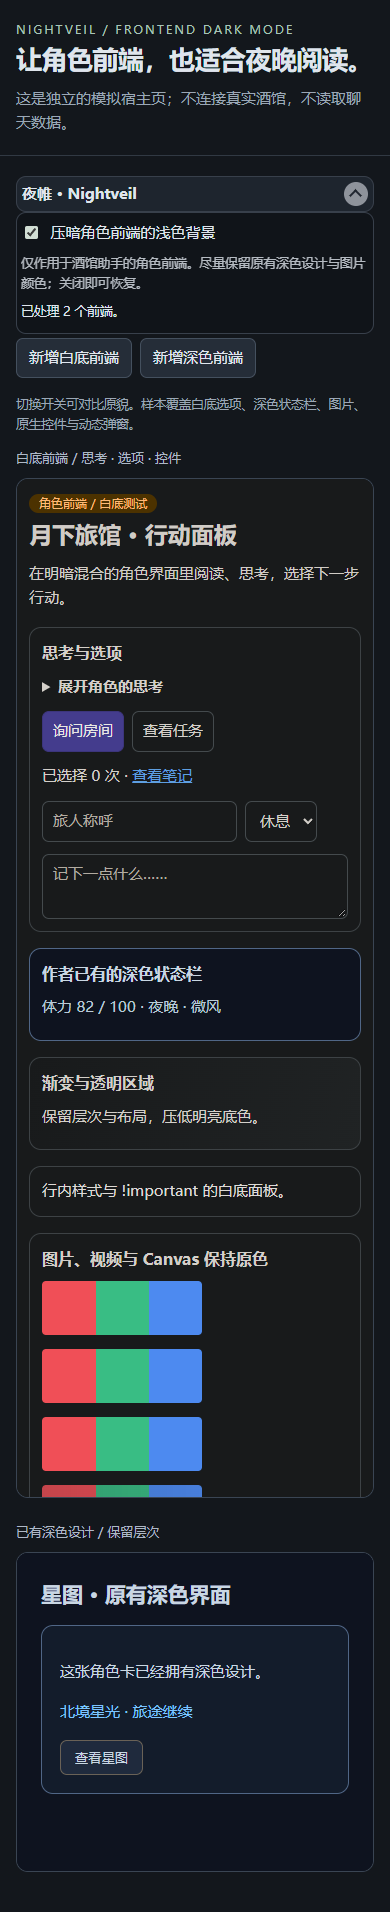
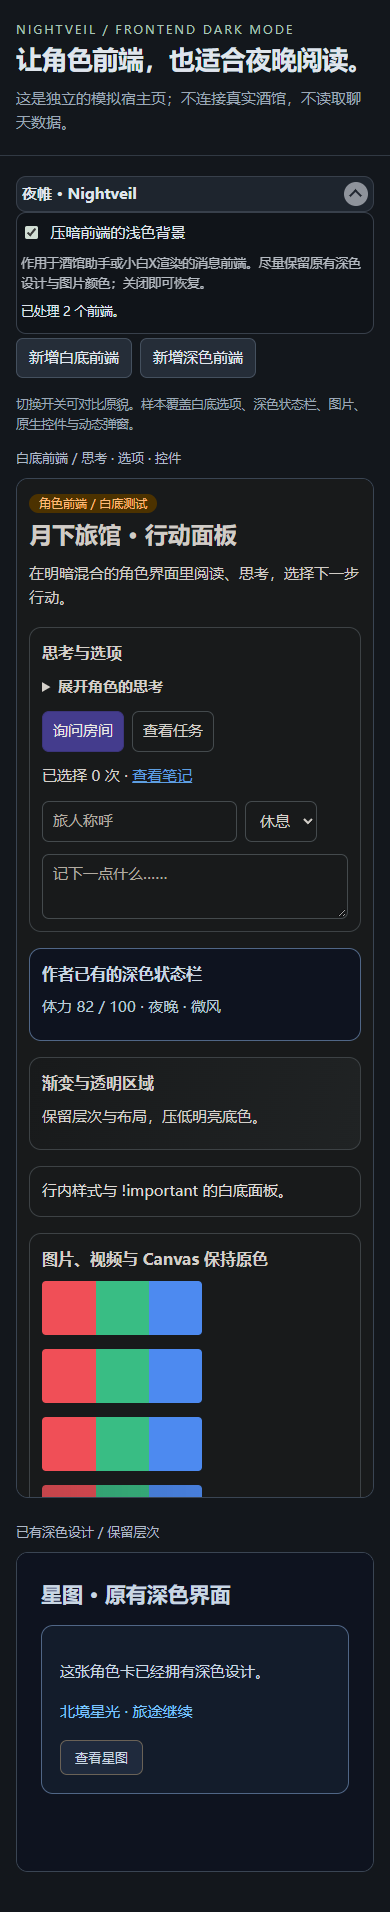
Support LittleWhiteBox message frontends in Nightveil 0.1.4

Changed region(s): [[0.0615, 0.0926, 0.9231, 0.1543]]

diff --git a/tests/browser/extension.spec.js b/tests/browser/extension.spec.js
@@ -642,3 +642,120 @@ test('settings drawer supports keyboard navigation on narrow screens', async ({ 
     await expect(checkbox).toBeVisible();
     await page.screenshot({ path: testInfo.outputPath('settings-narrow-expanded.png'), fullPage: true });
 });
+
+
+for (const host of ['modern', '1.14.0']) {
+    test('LittleWhiteBox existing srcdoc and dynamic Blob renderers coexist with Tavern Helper on ' + host, async ({ page }) => {
+        await boot(page, '?host=' + host + '&renderer=littlewhitebox');
+        await active(page, 2);
+        const initial = frame(page, 'xiaobaix-demo-0');
+        await expectDark(initial, '#light-panel');
+        await initial.locator('#choose').click();
+        await expect(initial.locator('#result')).toHaveText('1');
+        await initial.locator('#name').fill('Nightveil');
+        await expect(initial.locator('#name')).toHaveValue('Nightveil');
+        const blobId = await add(page, { renderer: 'littlewhitebox', blob: true });
+        const helperId = await add(page, { renderer: 'tavern-helper' });
+        await active(page, 4);
+        const blob = await ready(page, blobId, '#light-panel');
+        const helper = await ready(page, helperId, '#light-panel');
+        await expectDark(blob, '#light-panel');
+        await expectDark(helper, '#light-panel');
+        await expect(initial.locator('script[data-darksilly-owner]')).toHaveCount(1);
+        await expect(blob.locator('script[data-darksilly-owner]')).toHaveCount(1);
+        expect(await color(blob, '#illustration', 'filter')).toBe('none');
+        await page.locator('#darksilly-enabled').uncheck();
+        for (const target of [initial, blob, helper]) {
+            await expect(target.locator('style.darkreader, script[data-darksilly-owner]')).toHaveCount(0);
+            expect(luminance(await color(target, '#light-panel'))).toBeGreaterThan(0.9);
+        }
+        await page.locator('#darksilly-enabled').check();
+        await active(page, 4);
+        expect(await page.evaluate(() => window.extension.getDiagnostics().hostScans)).toBe(2);
+    });
+}
+
+test('LittleWhiteBox streaming callback, late options and nested frames keep working', async ({ page }) => {
+    await boot(page);
+    const html = await (await page.request.get('/tests/fixtures/littlewhitebox-template.html')).text();
+    const id = await add(page, { renderer: 'littlewhitebox', html, height: 420 });
+    const target = await ready(page, id, '#stream-panel');
+    await active(page, 1);
+    await expectDark(target, '#stream-panel');
+    await target.evaluate(() => {
+        for (let i = 0; i < 80; i++) window.updateTemplateVariables({ mood: '更新 ' + i });
+        window.updateTemplateVariables({ mood: '已完成', option: '新增白底选项' });
+    });
+    await expect(target.locator('[data-xiaobaix-var]')).toHaveText('已完成');
+    expect(await target.evaluate(() => window.streamUpdates)).toBe(81);
+    await expectDark(target, '#stream-option');
+    await target.locator('#choose').click();
+    await expect(target.locator('#result')).toHaveText('1');
+    await target.evaluate(() => {
+        const child = document.createElement('iframe');
+        child.id = child.name = 'littlewhitebox-nested';
+        child.srcdoc = '<!doctype html><body><section id="nested" style="background:white;color:black">Nested panel</section></body>';
+        document.body.append(child);
+    });
+    const nested = await ready(page, 'littlewhitebox-nested', '#nested');
+    await active(page, 2);
+    await expectDark(nested, '#nested');
+    const diagnostics = await page.evaluate(() => window.extension.getDiagnostics());
+    expect(diagnostics.hostScans).toBe(1);
+    expect(diagnostics.injections).toBe(2);
+    await page.locator('#darksilly-enabled').uncheck();
+    await expect(target.locator('style.darkreader, script[data-darksilly-owner]')).toHaveCount(0);
+    await expect(nested.locator('style.darkreader, script[data-darksilly-owner]')).toHaveCount(0);
+    expect(luminance(await color(target, '#stream-option'))).toBeGreaterThan(0.9);
+    expect(await target.locator('#stream-option').evaluate(node => node.style.getPropertyPriority('background-color'))).toBe('important');
+});
+
+test('LittleWhiteBox late class, navigation and marker removal have scoped cleanup', async ({ page }) => {
+    await boot(page);
+    const id = await add(page, { renderer: 'littlewhitebox', className: '', id: 'xiaobaix-late' });
+    const target = await ready(page, id, '#light-panel');
+    const unrelated = await add(page, { renderer: 'littlewhitebox', className: '', id: 'xiaobaix-settings-panel' });
+    const backend = await add(page, { renderer: 'littlewhitebox', id: 'TH-script--background' });
+    await ready(page, unrelated, '#light-panel');
+    await ready(page, backend, '#light-panel');
+    await active(page, 0);
+    expect(luminance(await color(target, '#light-panel'))).toBeGreaterThan(0.9);
+    await page.locator('#' + id).evaluate(element => element.classList.add('xiaobaix-iframe'));
+    await active(page, 1);
+    await expectDark(target, '#light-panel');
+    await page.locator('#' + id).evaluate(element => {
+        window.previousLittleWhiteBoxDocument = element.contentDocument;
+        element.srcdoc = '<!doctype html><body><section id="replacement" style="background:white;color:black">Replacement</section></body>';
+    });
+    const replacement = await ready(page, id, '#replacement');
+    await active(page, 1);
+    await expectDark(replacement, '#replacement');
+    expect(await page.evaluate(() => window.previousLittleWhiteBoxDocument.querySelectorAll('style.darkreader, script[data-darksilly-owner]').length)).toBe(0);
+    await page.locator('#' + id).evaluate(element => element.classList.remove('xiaobaix-iframe'));
+    await active(page, 0);
+    await expect(replacement.locator('style.darkreader, script[data-darksilly-owner]')).toHaveCount(0);
+    expect(luminance(await color(replacement, '#replacement'))).toBeGreaterThan(0.9);
+    await page.locator('#' + id).evaluate(element => element.classList.add('xiaobaix-iframe'));
+    await active(page, 1);
+    await page.locator('#' + id).evaluate(element => element.closest('.xiaobaix-iframe-wrapper').remove());
+    await expect.poll(() => page.evaluate(() => window.extension.getDiagnostics().frames)).toBe(0);
+    for (const ignored of [unrelated, backend]) {
+        await expect(frame(page, ignored).locator('style.darkreader, script[data-darksilly-owner]')).toHaveCount(0);
+        expect(luminance(await color(frame(page, ignored), '#light-panel'))).toBeGreaterThan(0.9);
+    }
+    expect(await page.evaluate(() => window.extension.getDiagnostics().scopes)).toBe(1);
+});
+
+test('LittleWhiteBox restricted frames fail independently without blocking a readable frontend', async ({ page }) => {
+    await boot(page);
+    await add(page, { renderer: 'littlewhitebox', src: 'http://127.0.0.1:4174/tests/fixtures/card.html' });
+    await add(page, { renderer: 'littlewhitebox', sandbox: 'allow-scripts' });
+    await add(page, { renderer: 'littlewhitebox', html: `<!doctype html><meta http-equiv="Content-Security-Policy" content="script-src 'none'"><body style="background:white">CSP</body>` });
+    await add(page, { renderer: 'littlewhitebox', html: '<!doctype html><meta name="darkreader" content="other"><body style="background:white">Other owner</body>' });
+    const good = await add(page, { renderer: 'littlewhitebox' });
+    await active(page, 1);
+    await expectDark(await ready(page, good, '#light-panel'), '#light-panel');
+    await expect.poll(() => page.evaluate(() => window.extension.getDiagnostics().skipped)).toBe(4);
+    const diagnostics = await page.evaluate(() => window.extension.getDiagnostics());
+    expect(diagnostics.reasons).toEqual({ inaccessible: 1, sandbox: 1, 'script-blocked': 1, 'other-engine': 1 });
+});

diff --git a/dist/index.js b/dist/index.js
@@ -1,7 +1,7 @@
 // src/constants.js
 var EXTENSION_ID = "darksilly";
 var DISPLAY_NAME = "夜帷 · Nightveil";
-var FRAME_SELECTOR = 'iframe[id^="TH-message--"]';
+var FRAME_SELECTOR = 'iframe[id^="TH-message--"], iframe.xiaobaix-iframe';
 var REGISTER_KEY = "__darksillyRegisterV1";
 var OWNER_ATTRIBUTE = "data-darksilly-owner";
 var LOAD_TIMEOUT_MS = 8e3;
@@ -136,7 +136,7 @@ function createFrameManager({ document: document2, runtimeUrl: runtimeUrl2, onSt
       childList: true,
       subtree: true,
       attributes: true,
-      attributeFilter: ["id", "src", "srcdoc", "sandbox"]
+      attributeFilter: ["id", "class", "src", "srcdoc", "sandbox"]
     });
     scopes.set(scopeDocument, { observer, owner });
     if (owner) metrics.documentScans++;
@@ -333,7 +333,7 @@ function createApplication({ document: document2, host, runtimeUrl: runtimeUrl2 
       const reasons = Object.entries(result.reasons).map(([reason, count]) => (STATUS_LABELS[reason] || "暂不可处理") + " " + count);
       parts.push("跳过 " + result.skipped + " 个（" + reasons.join("、") + "）");
     }
-    if (!result.active && !result.pending && !result.skipped) parts.push("等待酒馆助手渲染角色前端");
+    if (!result.active && !result.pending && !result.skipped) parts.push("等待酒馆助手或小白X渲染前端");
     status.textContent = parts.join("；") + "。";
   }
   function save() {
@@ -391,11 +391,11 @@ function createApplication({ document: document2, host, runtimeUrl: runtimeUrl2 
       checkbox.checked = settings.enabled;
       checkbox.addEventListener("change", onToggle);
       const labelText = document2.createElement("span");
-      labelText.textContent = "压暗角色前端的浅色背景";
+      labelText.textContent = "压暗前端的浅色背景";
       label.append(checkbox, labelText);
       const help = document2.createElement("p");
       help.className = "darksilly-help";
-      help.textContent = "仅作用于酒馆助手的角色前端。尽量保留原有深色设计与图片颜色；关闭即可恢复。";
+      help.textContent = "作用于酒馆助手或小白X渲染的消息前端。尽量保留原有深色设计与图片颜色；关闭即可恢复。";
       status = document2.createElement("p");
       status.id = "darksilly-status";
       status.setAttribute("role", "status");
@@ -440,7 +440,7 @@ function createApplication({ document: document2, host, runtimeUrl: runtimeUrl2 
 }
 
 // src/index.js
-var runtimeUrl = new URL("./frame-runtime.js?v=0.1.3", import.meta.url).href;
+var runtimeUrl = new URL("./frame-runtime.js?v=0.1.4", import.meta.url).href;
 var application = null;
 var startScheduled = false;
 var generation = 0;

diff --git a/src/application.js b/src/application.js
@@ -26,7 +26,7 @@ export function createApplication({ document, host, runtimeUrl }) {
             const reasons = Object.entries(result.reasons).map(([reason, count]) => (STATUS_LABELS[reason] || '暂不可处理') + ' ' + count);
             parts.push('跳过 ' + result.skipped + ' 个（' + reasons.join('、') + '）');
         }
-        if (!result.active && !result.pending && !result.skipped) parts.push('等待酒馆助手渲染角色前端');
+        if (!result.active && !result.pending && !result.skipped) parts.push('等待酒馆助手或小白X渲染前端');
         status.textContent = parts.join('；') + '。';
     }
 
@@ -83,11 +83,11 @@ export function createApplication({ document, host, runtimeUrl }) {
             checkbox.checked = settings.enabled;
             checkbox.addEventListener('change', onToggle);
             const labelText = document.createElement('span');
-            labelText.textContent = '压暗角色前端的浅色背景';
+            labelText.textContent = '压暗前端的浅色背景';
             label.append(checkbox, labelText);
             const help = document.createElement('p');
             help.className = 'darksilly-help';
-            help.textContent = '仅作用于酒馆助手的角色前端。尽量保留原有深色设计与图片颜色；关闭即可恢复。';
+            help.textContent = '作用于酒馆助手或小白X渲染的消息前端。尽量保留原有深色设计与图片颜色；关闭即可恢复。';
             status = document.createElement('p');
             status.id = 'darksilly-status';
             status.setAttribute('role', 'status');

diff --git a/demo/host.js b/demo/host.js
@@ -16,14 +16,16 @@ window.demo = {
     context,
     async addCard(kind = 'light', options = {}) {
         const html = options.html ?? await (await fetch('/tests/fixtures/' + (kind === 'dark' ? 'dark.html' : 'card.html'))).text();
+        const littleWhiteBox = (options.renderer ?? params.get('renderer')) === 'littlewhitebox';
         const wrapper = document.createElement('article');
-        wrapper.className = 'frame-card TH-render';
+        wrapper.className = 'frame-card ' + (littleWhiteBox ? 'xiaobaix-iframe-wrapper' : 'TH-render');
         const label = document.createElement('div');
         label.className = 'frame-label';
         label.textContent = kind === 'dark' ? '已有深色设计 / 保留层次' : '白底前端 / 思考 · 选项 · 控件';
         const frame = document.createElement('iframe');
-        frame.id = options.id ?? 'TH-message--demo-' + nextId++;
+        frame.id = options.id ?? (littleWhiteBox ? 'xiaobaix-demo-' : 'TH-message--demo-') + nextId++;
         frame.name = frame.id;
+        frame.className = options.className ?? (littleWhiteBox ? 'xiaobaix-iframe' : '');
         frame.title = kind === 'dark' ? '已有深色角色前端' : '白底角色前端';
         frame.height = String(options.height ?? (kind === 'dark' ? 320 : 1020));
         if (options.sandbox !== undefined) frame.setAttribute('sandbox', options.sandbox);

diff --git a/tests/fixtures/littlewhitebox-template.html b/tests/fixtures/littlewhitebox-template.html
@@ -1,0 +1,25 @@
+<!doctype html>
+<html lang="zh-CN"><head><meta charset="utf-8"><style>
+body { margin: 0; background: transparent; color: #222; font: 16px sans-serif; }
+#stream-panel, .stream-option { background: white; color: #222; padding: 12px; }
+</style></head><body>
+<section id="stream-panel"><p>状态：<bdi data-xiaobaix-var="mood">等待更新</bdi></p><button id="choose">选择</button><output id="result">0</output></section>
+<div id="stream-options"></div>
+<script>
+// Anonymous source-matched callback fixture, not the LittleWhiteBox runtime.
+window.streamUpdates = 0;
+window.updateTemplateVariables = function (vars) {
+    window.streamUpdates++;
+    document.querySelector('[data-xiaobaix-var="mood"]').textContent = vars.mood ?? '';
+    if (vars.option && !document.getElementById('stream-option')) {
+        const option = document.createElement('div');
+        option.id = 'stream-option'; option.className = 'stream-option';
+        option.style.setProperty('background-color', 'white', 'important');
+        option.textContent = vars.option;
+        document.getElementById('stream-options').append(option);
+    }
+};
+document.getElementById('choose').addEventListener('click', () => {
+    const result = document.getElementById('result'); result.value = String(Number(result.value) + 1);
+});
+</script></body></html>

diff --git a/src/constants.js b/src/constants.js
@@ -1,7 +1,8 @@
 // Keep the original settings/DOM namespace so existing installations retain their settings.
 export const EXTENSION_ID = 'darksilly';
 export const DISPLAY_NAME = '夜帷 · Nightveil';
-export const FRAME_SELECTOR = 'iframe[id^="TH-message--"]';
+// Known message renderers only; plugin settings/apps and backend frames stay out.
+export const FRAME_SELECTOR = 'iframe[id^="TH-message--"], iframe.xiaobaix-iframe';
 export const REGISTER_KEY = '__darksillyRegisterV1';
 export const OWNER_ATTRIBUTE = 'data-darksilly-owner';
 export const LOAD_TIMEOUT_MS = 8000;

diff --git a/src/frame-manager.js b/src/frame-manager.js
@@ -108,7 +108,7 @@ export function createFrameManager({ document, runtimeUrl, onStatus = () => {}, 
             }
         });
         observer.observe(scopeDocument.documentElement, {
-            childList: true, subtree: true, attributes: true, attributeFilter: ['id', 'src', 'srcdoc', 'sandbox'],
+            childList: true, subtree: true, attributes: true, attributeFilter: ['id', 'class', 'src', 'srcdoc', 'sandbox'],
         });
         scopes.set(scopeDocument, { observer, owner });
         if (owner) metrics.documentScans++; else metrics.hostScans++;

diff --git a/docs/VALIDATION.md b/docs/VALIDATION.md
@@ -1,6 +1,6 @@
-# 夜帷 · Nightveil 0.1.3 本地模拟验收记录
+# 夜帷 · Nightveil 0.1.4 本地模拟验收记录
 
-日期：2026-11-12（Asia/Shanghai）。本次通过独立模拟宿主验证默认收起的设置抽屉、防误触及键盘操作，并保留 1.14.0 加载兼容和图片合成回归。先前的真实页面只读诊断另行记录。**未向真实酒馆安装或启用本修复版，尚无真实角色卡或手机实机验收结果**。
+日期：2026-11-12（Asia/Shanghai）。本次新增小白X消息前端的普通／Blob／流式模板模拟，并保留默认收起的设置抽屉、1.14.0 加载兼容和图片合成回归。先前的真实页面只读诊断另行记录。**未向真实酒馆安装或启用本修复版，尚无真实角色卡或手机实机验收结果**。
 
 项目已更名为「夜帷 · Nightveil」，npm 项目标识为 `sillytavern-nightveil`。为兼容已有安装，设置、DOM 与 iframe 注册仍保留原 `darksilly` 命名空间。
 
@@ -12,8 +12,8 @@
 | 项目完整性检查 | 通过；清单、导出钩子、本地脚本、MIT 许可及构建适配说明齐全 |
 | 扩展技能提供的清单检查器 | 通过；0 警告、0 错误，无弃用 Extras 字段 |
 | Node 单元测试 | 10 项通过 |
-| Chromium 模拟宿主测试 | 25 项通过 |
-| Firefox 模拟宿主测试 | 25 项通过 |
+| Chromium 模拟宿主测试 | 30 项通过 |
+| Firefox 模拟宿主测试 | 30 项通过 |
 | 桌面与窄屏视觉复查 | 已检查；渐变正确变暗，文字可读，无横向溢出，图片保持原色 |
 
 测试运行环境：Node.js 24.15.0、Playwright 1.65.0、Chrome for Testing 153.0.8010.12、Firefox Nightly 159.0。Chromium 使用本机已有的 Playwright 浏览器；Firefox 使用与 Playwright 匹配的下载版本。这里的浏览器版本不代表插件承诺的最低浏览器版本。
@@ -21,6 +21,10 @@
 执行命令为 `npm test`；因本机使用已有 Chromium，执行前将 `PLAYWRIGHT_CHROMIUM_EXECUTABLE` 指向其绝对路径。完整机器结果位于 `test-results/results.json`，交互式报告位于 `playwright-report/index.html`；后续运行测试会覆盖这些临时文件。稳定摘要保存在 `validation-summary.json`。
 
 ## 关键验收证据
+
+- 小白X 3.2.5 的普通代码块与流式模板源码均使用 `.xiaobaix-iframe`；改动前对应模拟页面不被识别，改动后可与酒馆助手前端共存。已有页面、动态 Blob、按钮和输入框、开关恢复均通过。
+- 81 次模拟 `updateTemplateVariables` 更新后，变量文本及动态白底选项正确显示，同源嵌套页面继续处理，宿主只启动时全扫一次；移除标识、导航和删除容器后清理本插件实例。
+- 无渲染标识的同名前缀 iframe 和后台脚本 iframe 不处理；跨域、沙箱、CSP 及其他引擎分别跳过，正常小白X模拟前端不受影响。该测试模拟渲染 DOM 和回调，未加载小白X完整插件。
 
 - 新版和 1.14.0 加载器模拟下，设置默认收起但配色按已保存的开关继续运行；展开／收起不切换开关、不触发保存，也不进入宿主的抽屉委托处理。刷新后恢复收起状态并保留启用设置。
 - Enter／空格可操作标题，Tab 可进入展开后的开关；收起后的隐藏开关不进入键盘焦点顺序。390px 窄屏无横向溢出，桌面与窄屏截图已复查。
@@ -41,7 +45,7 @@
 
 构建适配的原因与边界见 [DARKREADER-PATCH.md](DARKREADER-PATCH.md)。适配不修改原始 npm 依赖文件，源码锚点变化或适配未接入时构建会失败。
 
-截图稳定性补充：完整回归发现原有混合图片样本的严格 PNG 比较会偶发失败；解码检查的最大差异为单通道 2/255。因此只对该渐变合成样本采用有界像素误差，未放宽普通图片或不透明背景图片的原有严格比较，也未改变配色引擎。0.1.2 修正后该 Chromium 用例连续独立运行 10 次均通过；本次 0.1.3 的完整回归也再次通过。
+截图稳定性补充：完整回归发现原有混合图片样本的严格 PNG 比较会偶发失败；解码检查的最大差异为单通道 2/255。因此只对该渐变合成样本采用有界像素误差，未放宽普通图片或不透明背景图片的原有严格比较，也未改变配色引擎。0.1.2 修正后该 Chromium 用例连续独立运行 10 次均通过；0.1.3 与本次 0.1.4 的完整回归也再次通过。
 
 ## 可查看的截图
 
@@ -50,7 +54,7 @@
 - [390px 窄屏效果](screenshots/mobile-dark.png)
 - [默认收起的设置入口（模拟宿主局部）](screenshots/settings-collapsed.png)
 
-截图均来自模拟宿主，并非真实酒馆截图。桌面视口为 1440×1100，窄屏视口为 390×844，截图使用整页捕获。
+截图均来自模拟宿主，并非真实酒馆截图。设置栏预览随本次支持两种渲染插件的说明文字更新。桌面视口为 1440×1100，窄屏视口为 390×844，截图使用整页捕获。
 
 ## 真实酒馆只读诊断与待验收
 
@@ -58,8 +62,8 @@
 
 受检页面中存在其他 Dark Reader 实例标记，未发现 Nightveil 设置面板或本插件拥有的运行时脚本。因此，这次只读观察不能证明该页面由 Nightveil 管理，也不能当作本修复版的真实安装验收。未修改该酒馆的设置、内容或加载状态；手机浏览器的强制深色与扩展共存情况仍待确认。用户保存页、截图、图片及聊天文本均未加入项目或上传仓库。
 
-最低宿主源码基线已核对 SillyTavern 1.14.0（`9c9be90`），保留原 1.19.0（`7e8663c`）与酒馆助手 4.12.1（`91a706c`）的参考基线；并未因此宣称助手 4.12.1 本身兼容酒馆 1.14.0。尚无目标 1.14.0 实例的安装快照，故未把模拟能力清单当作 installed-snapshot，也未声称真实宿主能力检查已通过。
+最低宿主源码基线已核对 SillyTavern 1.14.0（`9c9be90`），保留原 1.19.0（`7e8663c`）、酒馆助手 4.12.1（`91a706c`）和小白X 3.2.5（`707e03f`）的参考基线；并未因此宣称两种渲染插件本身均兼容酒馆 1.14.0。尚无目标 1.14.0 实例的安装快照，故未把模拟能力清单当作 installed-snapshot，也未声称真实宿主能力检查已通过。
 
-在目标 1.14.0 实例中仍需核验：扩展管理器识别与启停、真实设置保存与重载、账号及聊天切换、普通／流式前端与 Blob 模式、角色卡脚本交互、现用主题及浏览器扩展共存、卸载清理，以及实际手机浏览器表现。
+在目标 1.14.0 实例中仍需核验：扩展管理器识别与启停、真实设置保存与重载、账号及聊天切换、普通／流式前端与 Blob 模式、小白X自动高度和变量桥接／消息通道、角色卡脚本交互、现用主题及浏览器扩展共存、卸载清理，以及实际手机浏览器表现。
 
 已知限制：跨域或受限页面无法处理；不可读外部 CSS 可局部保留原色；闭合 Shadow DOM、部分封装组件和特殊绘图不保证转换；初次加载可能短暂显示原色；自动算法可能轻微调整已有暗色与强调色。

diff --git a/docs/COMPATIBILITY.md b/docs/COMPATIBILITY.md
@@ -27,7 +27,16 @@
 
 ## 渲染器与浏览器边界
 
-本次降低的是夜帷对酒馆宿主的最低要求，没有承诺酒馆助手 4.12.1 本身能在 1.14.0 安装运行。所用酒馆助手须已能在当前宿主中正常渲染，且生成受支持的 `TH-message--` 角色前端标识；渲染入口的源码核对基线仍为助手 4.12.1（`91a706c`），未扩展到未核实的旧标识。
+最低宿主声明不代表渲染插件本身能在酒馆 1.14.0 安装运行。所用酒馆助手或小白X须已能在当前宿主中正常渲染，二者任选其一，不要求同时安装。酒馆助手的入口源码基线仍为 4.12.1（`91a706c`），使用 `TH-message--` iframe 标识；未扩展到未核实的旧标识。
+
+### 小白X：0.1.4 新增
+
+- 源码基线：LittleWhiteBox 3.2.5，固定提交 `707e03f2d7f75bb6588b29625b3bd61b6c4a7c5a`，不作为所有旧版或分支的支持保证。
+- [普通代码块渲染](https://github.com/RT15548/LittleWhiteBox/blob/707e03f2d7f75bb6588b29625b3bd61b6c4a7c5a/modules/iframe-renderer.js)：`createRenderIframe` 设置 `.xiaobaix-iframe`，普通模式写入 `srcdoc`，可选 Blob 模式设置 `src`。
+- [流式模板渲染](https://github.com/RT15548/LittleWhiteBox/blob/707e03f2d7f75bb6588b29625b3bd61b6c4a7c5a/modules/template-editor/template-editor.js)：`IframeManager.createWrapper` 同样创建 `.xiaobaix-iframe`，随后写入 `srcdoc`；`updateVariables` 调用 iframe 的 `updateTemplateVariables(vars)`。
+- 夜帷只增加这个明确的消息渲染标识，沿用原有文档隔离、加载监听与清理；增量观察 `class` 变化，覆盖后添加／移除标识。不会按 `xiaobaix-` ID 前缀扫描小白X的设置或应用页面，也不接管所有 iframe。
+- 匿名模拟覆盖已有 `srcdoc`、动态 Blob、原有酒馆助手前端共存、流式回调与动态选项、同源嵌套、页面导航、标识移除及容器删除；受限页面分别降级。没有加载小白X完整代码，也没有执行其真实生成流程。
+- 当前证据为固定源码核对与模拟回归，**真实小白X实例、自动高度适配、变量桥接／消息通道和具体模板仍待实机验收**。未修改或导入用户角色卡，也未自动更新用户酒馆。
 
 运行浏览器还需支持 ES2022 模块、`:where()`、MutationObserver 等现有能力；宿主版本兼容不代表支持更旧的浏览器。跨域、沙箱、CSP 与其他 Dark Reader 实例的处理边界不变。
 
@@ -35,5 +44,5 @@
 
 - 改动前，无钩子的 1.14.0 加载器模拟无法挂载设置面板；改动后在 Chromium、Firefox 均通过。
 - 模拟回归覆盖已有前端、动态前端、开关即时恢复、开关状态刷新保存，以及扩展被禁用时不加载、重新启用后刷新加载。
-- 完整检查：10 项 Node 单元测试与 50 项浏览器测试通过；包括原有新版钩子幂等、清理及混合图片保护回归，并增加仅为清理而导入模块与立即取消启动的回归。
-- 仍需在真实 1.14.0 环境核验安装识别、实际设置保存、管理器启停刷新、现用酒馆助手的标识与渲染模式、角色卡交互及手机浏览器表现。未自动安装或修改用户实例。
+- 完整检查：10 项 Node 单元测试与 60 项浏览器测试通过；包括原有新版钩子幂等、清理及混合图片保护回归，并增加仅为清理而导入模块与立即取消启动的回归。
+- 仍需在真实 1.14.0 环境核验安装识别、实际设置保存、管理器启停刷新、现用酒馆助手／小白X的标识与渲染模式、角色卡交互及手机浏览器表现。未自动安装或修改用户实例。

diff --git a/README.md b/README.md
@@ -1,6 +1,6 @@
 # 夜帷 · Nightveil
 
-让酒馆助手渲染的角色前端，更适合夜晚阅读。
+让酒馆助手或小白X渲染的前端，更适合夜晚阅读。
 
 - 自动压暗浅色背景、思考选项和弹窗，尽量保留原有深色设计与图片原色。
 - 支持动态内容、srcdoc／Blob 前端及同源嵌套 iframe。
@@ -14,7 +14,7 @@
 
 手动安装时，将 `manifest.json`、`styles.css`、`dist/` 和 `LICENSE` 放入 `public/scripts/extensions/third-party/sillytavern-nightveil/`，再刷新酒馆。
 
-最低酒馆版本：**SillyTavern 1.14.0**；需有能在当前酒馆运行的酒馆助手。[兼容说明](docs/COMPATIBILITY.md)。跨域、受限沙箱或 CSP 阻止处理的页面会跳过；具体角色卡表现仍需实机验证。
+最低酒馆版本：**SillyTavern 1.14.0**；需有能在当前酒馆运行的酒馆助手或小白X，任选其一。[兼容说明](docs/COMPATIBILITY.md)。跨域、受限沙箱或 CSP 阻止处理的页面会跳过；具体角色卡表现仍需实机验证。
 
 ## 开发
 
